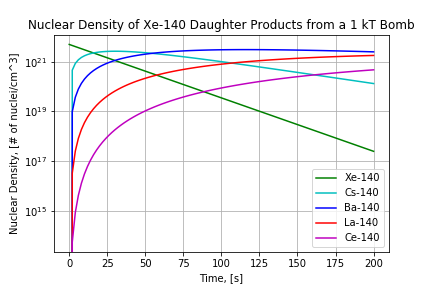
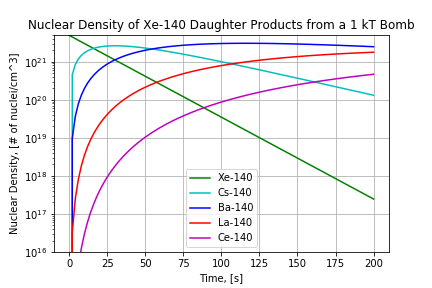
Add files via upload

Changed region(s): [[0.0602, 0.125, 0.9028, 0.875], [0.0602, 0.8438, 0.1204, 0.9062], [0.1505, 0.2188, 0.1806, 0.25]]

diff --git a/Project_Model_Reactivities_Included.py b/Project_Model_Reactivities_Included.py
@@ -18,7 +18,10 @@ Created on Wed Apr 22 16:06:27 2020
 import matplotlib.pyplot as plt
 import numpy as np
 from matplotlib.animation import FuncAnimation
+import math
 
+def orderOfMagnitude(number):
+    return math.floor(math.log(number, 10))
 '''
 The main inputs are timespan and reaction magnitude. Placeholders that will
     need to be determined by experimental data are the Velocity terms
@@ -162,7 +165,7 @@ plt.plot(time,La,label = 'La-140',c = 'r')
 
 plt.plot(time,Ce,label = 'Ce-140',c = 'm')
 
-#plt.ylim(bottom = 1e16)
+plt.ylim(bottom = 10**(orderOfMagnitude(Xe[-1])-1))
 #plt.ylim(top = 1e24)
 
 plt.yscale('log')
@@ -222,7 +225,7 @@ def update(i):
 
 # Create an animation object from the created figure that includes
 
-anim = FuncAnimation(fig, update, frames=len(Xe)+1, interval=100, repeat_delay = 10000)
+anim = FuncAnimation(fig, update, frames=len(Xe)+1, interval=(50*200/timespan), repeat_delay = 10000)
 
 # save a gif of the animation using the writing package from magick
 anim.save('Model_Gif_Reactivities_{}s.gif'.format(str(timespan)), dpi=72, writer='imagemagick')
